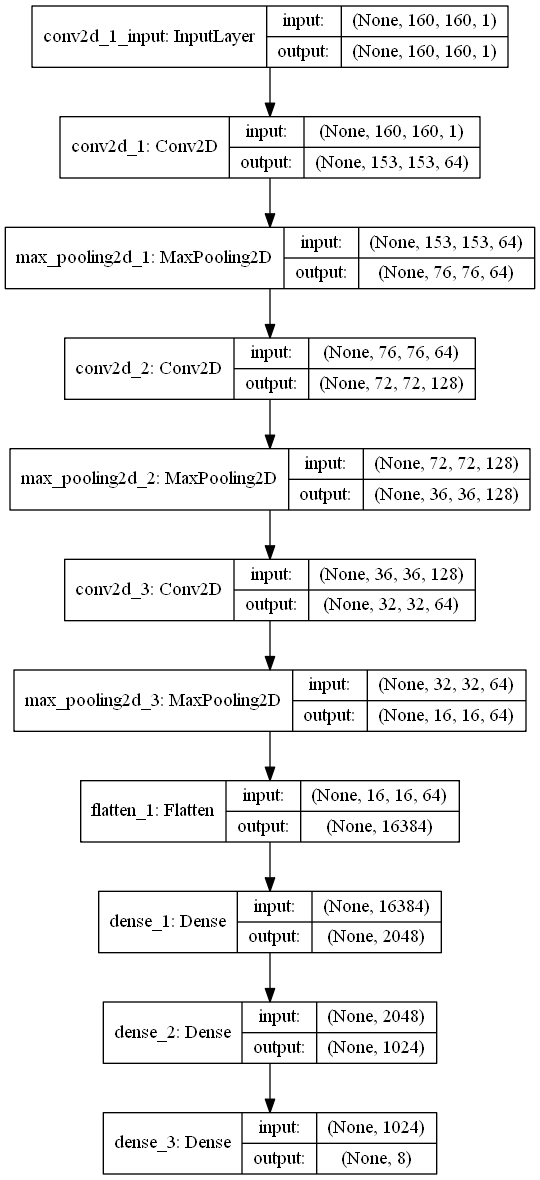
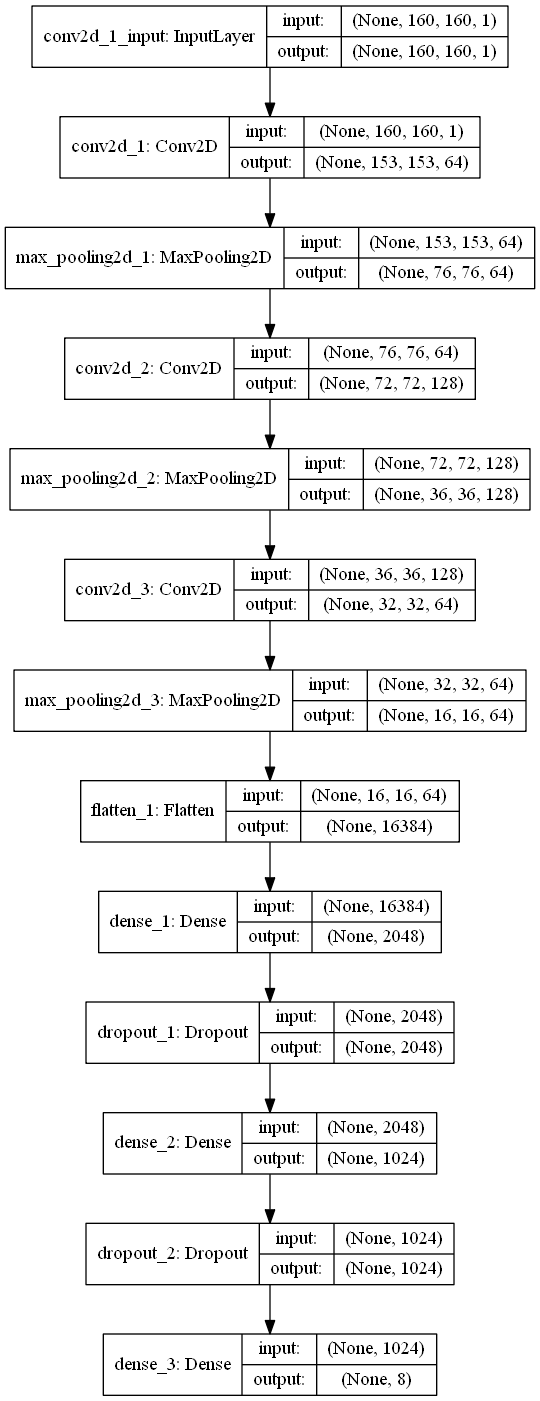
more updates

diff --git a/Model1.py b/Model1.py
@@ -1,4 +1,6 @@
 import numpy as np
+import cv2
+import time
 from keras.layers import *
 from keras.models import Sequential
 from keras.models import load_model
@@ -33,10 +35,9 @@ def get_model():
 
 
     model.add(Dense(units=2048, activation='relu'))
-    model.add(Dropout(rate=0.1))
+    model.add(Dropout(rate=0.25))
     model.add(Dense(units=1024, activation='relu'))
-    model.add(Dropout(rate=0.1))
-    #model.add(Dense(units=136, activation='linear'))
+    model.add(Dropout(rate=0.25))
     model.add(Dense(units=8, activation='softmax'))
 
     model.compile(
@@ -117,9 +118,54 @@ def _train_model():
     x_train, x_test, y_train, y_test = _preprocess_data(data)
     _train_model_common(get_model(), MODEL_NAME, x_train, x_test, y_train, y_test)
 
+def _camera_test():
+    _, model = _load_data_and_model()
+    vid = cv2.VideoCapture(0)
+
+    while (True):
+
+        time.sleep(0.5)
+        # Capture the video frame
+        # by frame
+        ret, frame = vid.read()
+
+        gray_frame = cv2.cvtColor(frame, cv2.COLOR_BGR2GRAY)
+        #gray_frame_croped = gray_frame[0:480, 80:560]
+        gray_frame_croped = gray_frame[60:420, 140:500]
+        gray_frame_resized = cv2.resize(gray_frame_croped, (DATA_RESOLUTION, DATA_RESOLUTION))
+        data = [gray_frame_resized]
+
+        pred = model.predict(np.array(data).reshape((len(data), DATA_RESOLUTION, DATA_RESOLUTION, 1)))
+
+        pred = np.argmax(pred)
+
+        cv2.putText(frame, '{} {}'.format(
+            pred, emotion_map[str(float(pred))]),
+            (30,30), cv2.FONT_HERSHEY_SIMPLEX, 1,
+            (255, 255, 255), 2, cv2.LINE_AA)
+
+
+        cv2.line(frame, (80, 0), (80, 480), (255, 255, 255) , 1)
+        cv2.line(frame, (560, 0), (560, 480), (255, 255, 255), 1)
+        # Display the resulting frame
+        cv2.imshow('frame', frame)
+        cv2.imshow('resized', gray_frame_resized)
+
+        # the 'q' button is set as the
+        # quitting button you may use any
+        # desired button of your choice
+        if cv2.waitKey(1) & 0xFF == ord('q'):
+            break
+
+    # After the loop release the cap object
+    vid.release()
+    # Destroy all the windows
+    cv2.destroyAllWindows()
+
 if __name__ == "__main__":
     #_manual_test()
     #_evaluation_test()
-    _train_model()
+    #_camera_test()
+    #_train_model()
     #_plot_model()
     pass

diff --git a/Model2.py b/Model2.py
@@ -2,6 +2,8 @@ import random
 
 import matplotlib.pyplot as plt
 import numpy as np
+import cv2
+import time
 from keras.layers import *
 from keras.models import Sequential
 from keras.models import load_model
@@ -132,9 +134,50 @@ def _train_model():
     x_train, x_test, y_train, y_test = _preprocess_data(data)
     _train_model_common(get_model(), MODEL_NAME, x_train, x_test, y_train, y_test)
 
+def _camera_test():
+    _, model, _ = _load_data_and_model()
+    vid = cv2.VideoCapture(0)
+
+    while (True):
+
+        # Capture the video frame
+        # by frame
+        ret, frame = vid.read()
+
+        gray_frame = cv2.cvtColor(frame, cv2.COLOR_BGR2GRAY)
+        #gray_frame_croped = gray_frame[0:480, 80:560]
+        gray_frame_croped = gray_frame[60:420, 140:500]
+        gray_frame_resized = cv2.resize(gray_frame_croped, (DATA_RESOLUTION, DATA_RESOLUTION))
+        data = [gray_frame_resized]
+
+        pred = model.predict(np.array(data).reshape((len(data), DATA_RESOLUTION, DATA_RESOLUTION, 1)))
+        pred = pred.reshape(68, 2)
+
+        for t in pred:
+            cv2.circle(gray_frame_resized, tuple(t), 1, (255, 255, 255), 1)
+
+        cv2.line(frame, (80, 0), (80, 480), (255, 255, 255) , 1)
+        cv2.line(frame, (560, 0), (560, 480), (255, 255, 255), 1)
+
+        # Display the resulting frame
+        cv2.imshow('resized', gray_frame_resized)
+        cv2.imshow('frame', frame)
+
+        # the 'q' button is set as the
+        # quitting button you may use any
+        # desired button of your choice
+        if cv2.waitKey(1) & 0xFF == ord('q'):
+            break
+
+    # After the loop release the cap object
+    vid.release()
+    # Destroy all the windows
+    cv2.destroyAllWindows()
+
 if __name__ == "__main__":
     #_manual_test()
     #_evaluation_test()
+    #_camera_test()
     #_train_model()
     #_plot_model()
     pass

diff --git a/constants.py b/constants.py
@@ -1,5 +1,5 @@
 PHOTOS_PER_SESSION = 3
-EPOCHS = 3
+EPOCHS = 15
 DATA_RESOLUTION = 160
 shrink_ratio = 480 / DATA_RESOLUTION
 TEST_SIZE = 0.2
